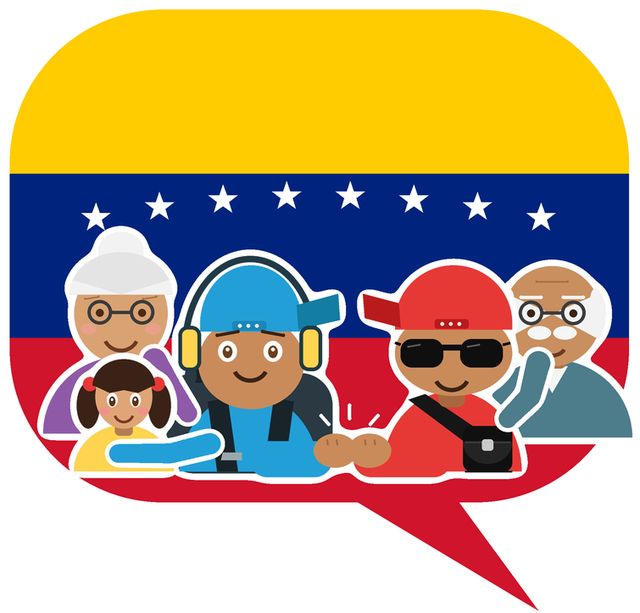
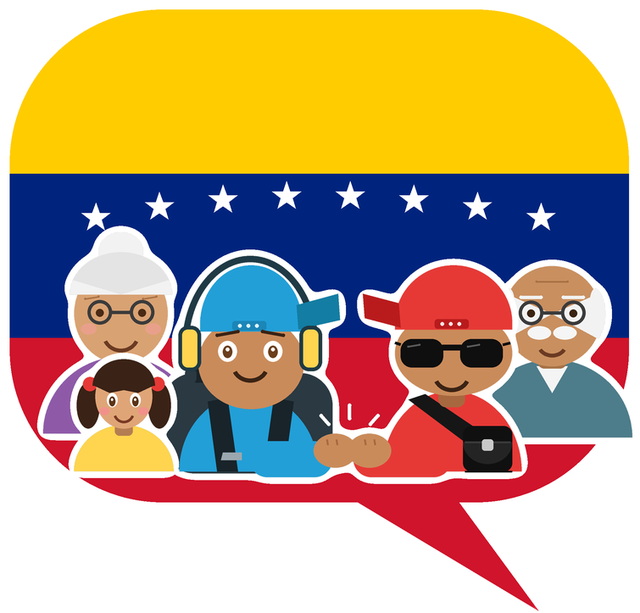
Web: ícono sin los brazos agregados
Claude-Session: https://claude.ai/code/session_016SH2FLmY4JWmgoaF6y6GX7

Changed region(s): [[0.1562, 0.5579, 0.375, 0.7749], [0.75, 0.6199, 0.8438, 0.7129], [0.8125, 0.5579, 0.875, 0.6509]]

diff --git a/index.html b/index.html
@@ -291,7 +291,7 @@ footer b { color: var(--ink); letter-spacing: .24em; font-size: 13px; }
 <section id="generaciones">
   <div class="wrap gen">
     <figure>
-      <img src="img/chamos-generaciones.png" width="640" height="613" loading="lazy" alt="Ícono de Chamos: dos jóvenes chocando los puños, una niña abrazada por el chamo de gorra azul y dos abuelos abrazando a los chamos, sobre la bandera de Venezuela">
+      <img src="img/chamos-generaciones.png" width="640" height="613" loading="lazy" alt="Ícono de Chamos: dos jóvenes chocando los puños, una niña junto al chamo de gorra azul y dos abuelos detrás, sobre la bandera de Venezuela">
     </figure>
     <div>
       <p class="kicker">Todas las generaciones</p>
